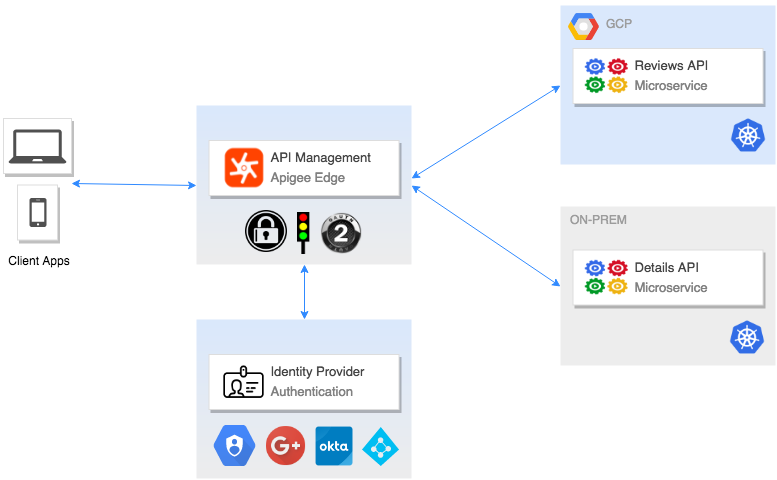
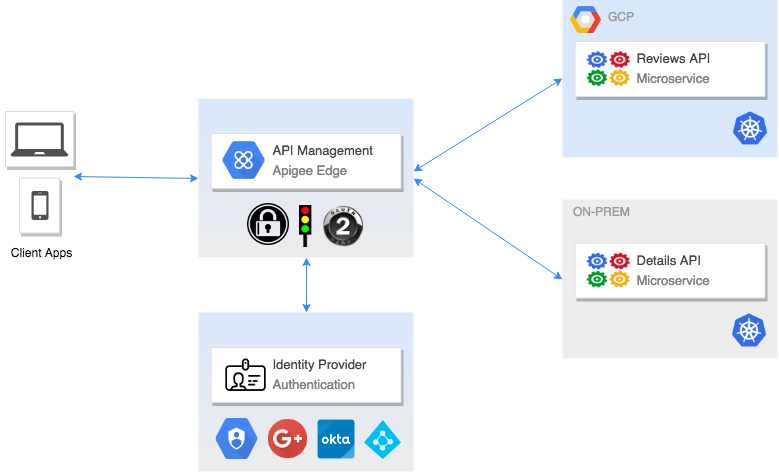
changed the arch images and added the Mesh Proxy setup

diff --git a/README.md b/README.md
@@ -1,22 +1,27 @@
 # Beer App
-This application provides information about Beers in a simple interface. The application is comprised of a lightweight, responsive browser interface, a Beer Data API, and corespeonding Beer microservices. The Beer API is exposed through an API Management proxy endpoint point that enforces AuthN/AuthZ, Security, Rate limting, etc. The Beer API is constructed from various Beer microservices (Details, Reviews, etc.) that run in a Kubernetes (K8s) cluster. Istio is installed in the K8s cluster to provide service mesh management by leveraging Envoy as a sidecar proxy. Istio initially provides routing, load balancing, and security (mTLS) for the cluster services.
+This application provides information about Beers in a simple interface. The application is comprised of a lightweight, responsive browser interface, a Beer Data API, and corespeonding Beer microservices. The Beer API is exposed through an API Management proxy endpoint point that enforces AuthN/AuthZ, Security, Rate limting, etc. The Beer API is constructed from various Beer microservices (Details, Reviews, etc.) that run in a Kubernetes (K8s) cluster. Istio is installed in the K8s cluster to provide service mesh management by leveraging Envoy as a sidecar proxy. Istio initially provides traffic management, observability, policy enforcement, and security (mTLS) for the cluster services. The Apigee Istio Mixer plugin provides additional security and governence with api key/token validation, quota enforcement, and analytics.
 
 These are the API Management deployment patterns:
 
-* **Stand-alone** environment: The Beer API and services reside in a K8s environment (private or public cloud) and are proxied directly from the API Management platform. This is the default example. 
+* **Edge Proxy** environment: The Beer API and services reside in a K8s environment (private or public cloud) and are proxied directly from the API Management Edge proxy. This is the default example. 
 
 ![alt text](images/beer-app_architecture.png)
 
-* **Facade** environment: The Beer API services reside in separate K8s environment(s) (private and public cloud) or namespaces and the Beer API is orchestrated and proxied from the API Management platform.
+* **Mesh Proxy** environment: The Beer API and services reside in a K8s environment (private or public cloud) and are proxied directly from the Istio/Envoy sidecar proxies. This is the Apigee Istio Mixer example. 
+
+![alt text](images/beer-app_architecture-mesh.png)
+
+* **Facade Proxy** environment: The Beer API services reside in separate K8s environment(s) (private and public cloud) or namespaces and the Beer API is orchestrated and proxied from the API Management platform.
 
 ![alt text](images/beer-app_architecture-facade.png)
 
-The examples, **Stand-alone** and **Facade**, focus on running the Beer App services in [Google Kubernetes Engine](https://cloud.google.com/kubernetes-engine/). Additional examples will be provided for Docker for Desktop, Minikube, Pivotal Cloud Foundry, etc. 
+The examples focus on running the Beer App services in [Google Kubernetes Engine](https://cloud.google.com/kubernetes-engine/). Additional examples will be provided for Docker for Desktop, Minikube, Pivotal Cloud Foundry, etc. 
 
 There are a few [prerequisites](docs/PREREQUISITES.md) that need to be validated and/or installed before continuing to the setup. The [Setup](docs/SETUP.md) contains all the commands required to setup the environment to run the demo and labs.
 
 * [Prerequisites](docs/PREREQUISITES.md)
 * [Setup](docs/SETUP.md)
+* [Labs!](labs/)
 * [API Management](docs/APIGEE.md)
 * [Development](docs/DEVELOPMENT.md)
 * [To-Do](#todo)

diff --git a/labs/Mesh-API-key-validation.md b/labs/Mesh-API-key-validation.md
@@ -1,0 +1,25 @@
+# Beer App Labs - Mesh API Key validation
+This documentation provides details for Running the Mesh API Key validation lab.
+
+Please verify that you have read and completed the [prerequisites](../docs/PREREQUISITES.md), [Setup](../docs/SETUP.md), and [Setup Mesh Proxy](../docs/SETUP-MESH-PROXY.md) documents before continuing the Lab exercises.
+
+* [Create API Product and Application](#create_api_product_and_application)
+
+## <a name="create_api_product_and_application">Create API Product and Application</a>
+Create an API product in your Apigee organization, set a strict quota (10 calls per minute), and add the appropriate Beer API services (list below) via Edge Management UI or *apigee-istio* CLI. There are instructions for how to leverage the *apigee-istio* command [here](https://github.com/apigee/istio-mixer-adapter).
+```
+beer-api.default.svc.cluster.local
+details-api.default.svc.cluster.local
+reviews-api.default.svc.cluster.local
+likes-api.default.svc.cluster.local
+```
+        
+Create an application, add the above API product, and capture the consumer/client key. We will use the client key as the credential to call the Beer API services 
+
+        export CLIENT_KEY=<consumer/client key>
+
+Verify an Ok 200 HTTP status code is returned when trying to access the services with the *x-api-key* header:
+
+        curl -o /dev/null -s -w "%{http_code}\n" http://${GATEWAY_URL}/api/beers -H "X-api-key: ${CLIENT_KEY}"
+
+Open the Apigee Edge analytics to view the errors and success for the service proxies.

diff --git a/docs/SETUP-MESH-PROXY.md b/docs/SETUP-MESH-PROXY.md
@@ -1,0 +1,27 @@
+# Beer App - Setup Mesh Proxy 
+This documentation provides details for configuring the Apigee Istio Mixer to leverage Istio's Envoy sidecar proxy. 
+
+Please verify that you have read the [prerequisites](PREREQUISITES.md) and [Setup](SETUP.md) documents and followed required actions before continuing.
+
+* [Setup Apigee Istio Mixer](#setup_apigee_istio_mixer)
+
+## <a name="setup_apigee_istio_mixer">Setup Apigee Istio Mixer</a>
+These instructions to configure the Apigee Istio Mixer definitions and handler so requests between services will be enforced via Apigee. 
+
+Apply the Apigee configurations:
+
+        kubectl apply -f istio-manifests/apigee/definitions.yaml
+        kubectl apply -f istio-manifests/apigee/handler.yaml
+
+Enalbe the Apigee rule for *authorization* and *analytics* for all _inbound_ requests in the _default_ namespace:
+```
+  match: context.reporter.kind == "inbound" && destination.namespace == "default"
+    && destination.service != "details-db" && destination.service != "reviews-db"
+```
+        kubectl apply -f istio-manifests/apigee/inbound_default_rule.yaml
+
+Verify an unauthorized 403 HTTP status code is returned when trying to access the services:
+
+        curl -o /dev/null -s -w "%{http_code}\n" http://${GATEWAY_URL}/api/beers
+
+You have now enalbed Apigee *authorization*, *quota enforcement*, and *analytics* for all services in the mesh.

diff --git a/docs/SETUP.md b/docs/SETUP.md
@@ -1,14 +1,15 @@
 # Beer App - Setup
 This documentation provides details for how to setup the Beer App interface and API. You will need to create a K8s cluster, install the application and start the front-end client
 
-* [Setup Kubernetes and Istio](#setup_kubernetes_and_istio)
+* [Setup Kubernetes](#setup_kubernetes)
+* [Setup Istio](#setup_istio)
 * [Setup Backend](#setup_backend)
 * [Setup Frontend](#setup_frontend)
 * [Cleanup](#cleanup)
 
 
-## <a name="setup_kubernetes_and_istio">Setup Kubernetes and Istio</a>
-These instructions to setup a k8s and Istio environment are via the  *gcloud* SDK CLI. You can also setup via the GCP *console*.
+## <a name="setup_kubernetes">Setup Kubernetes</a>
+These instructions to setup a k8s environment via the *gcloud* SDK CLI. You can also setup via the GCP *console*.
 
 Set your **CLUSTER_NAME** environment variable
 
@@ -24,7 +25,11 @@ Enable cluster-admin-binding clusterrolebinding in the cluster:
 
         kubectl create clusterrolebinding cluster-admin-binding --clusterrole=cluster-admin --user=$(gcloud config get-value core/account)
 
-Install Istio with mTLS (between Istio components):
+
+## <a name="setup_istio">Setup Istio</a>
+These instructions to setup Istio via the *gcloud* SDK CLI
+
+Install Istio with mTLS (between Istio components) and with Apigee Istio Mixer image:
 
         kubectl apply -f install/kubernetes/istio-demo-auth.yaml
 
